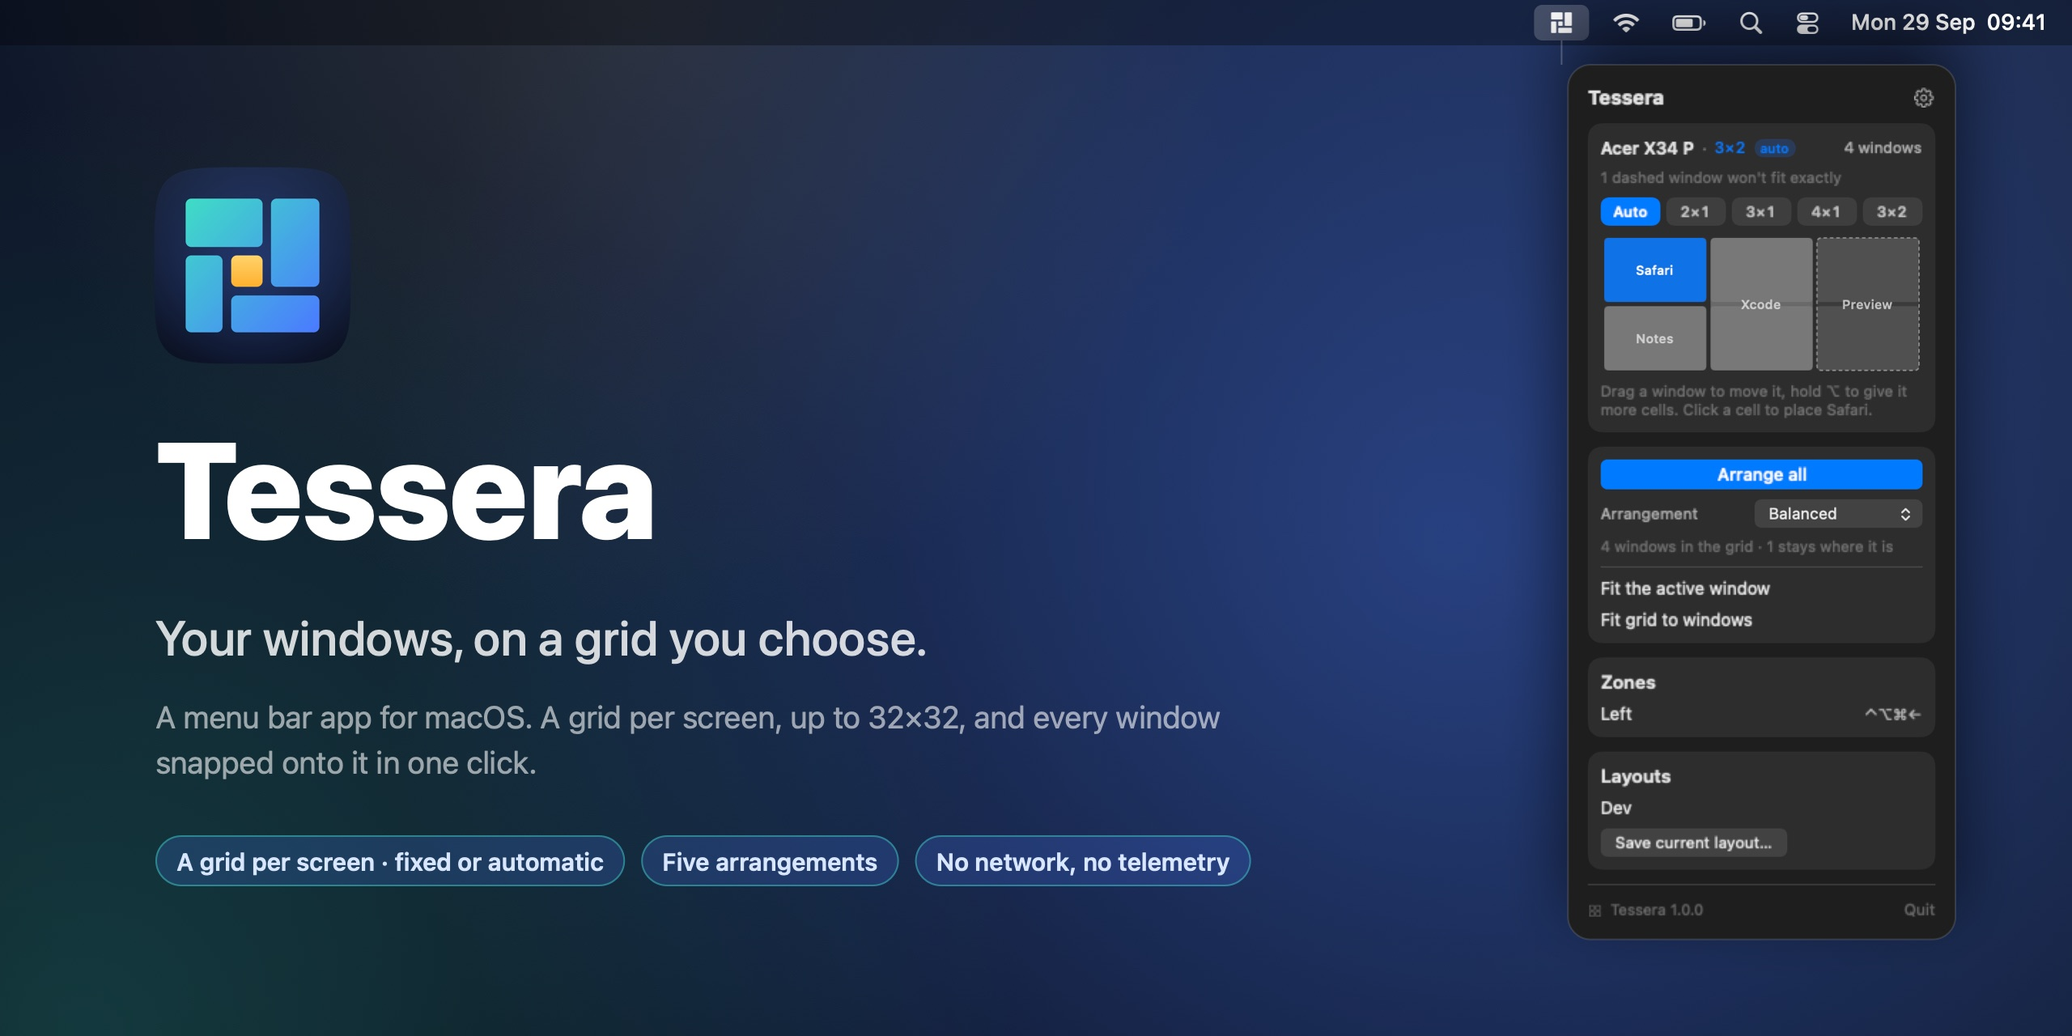
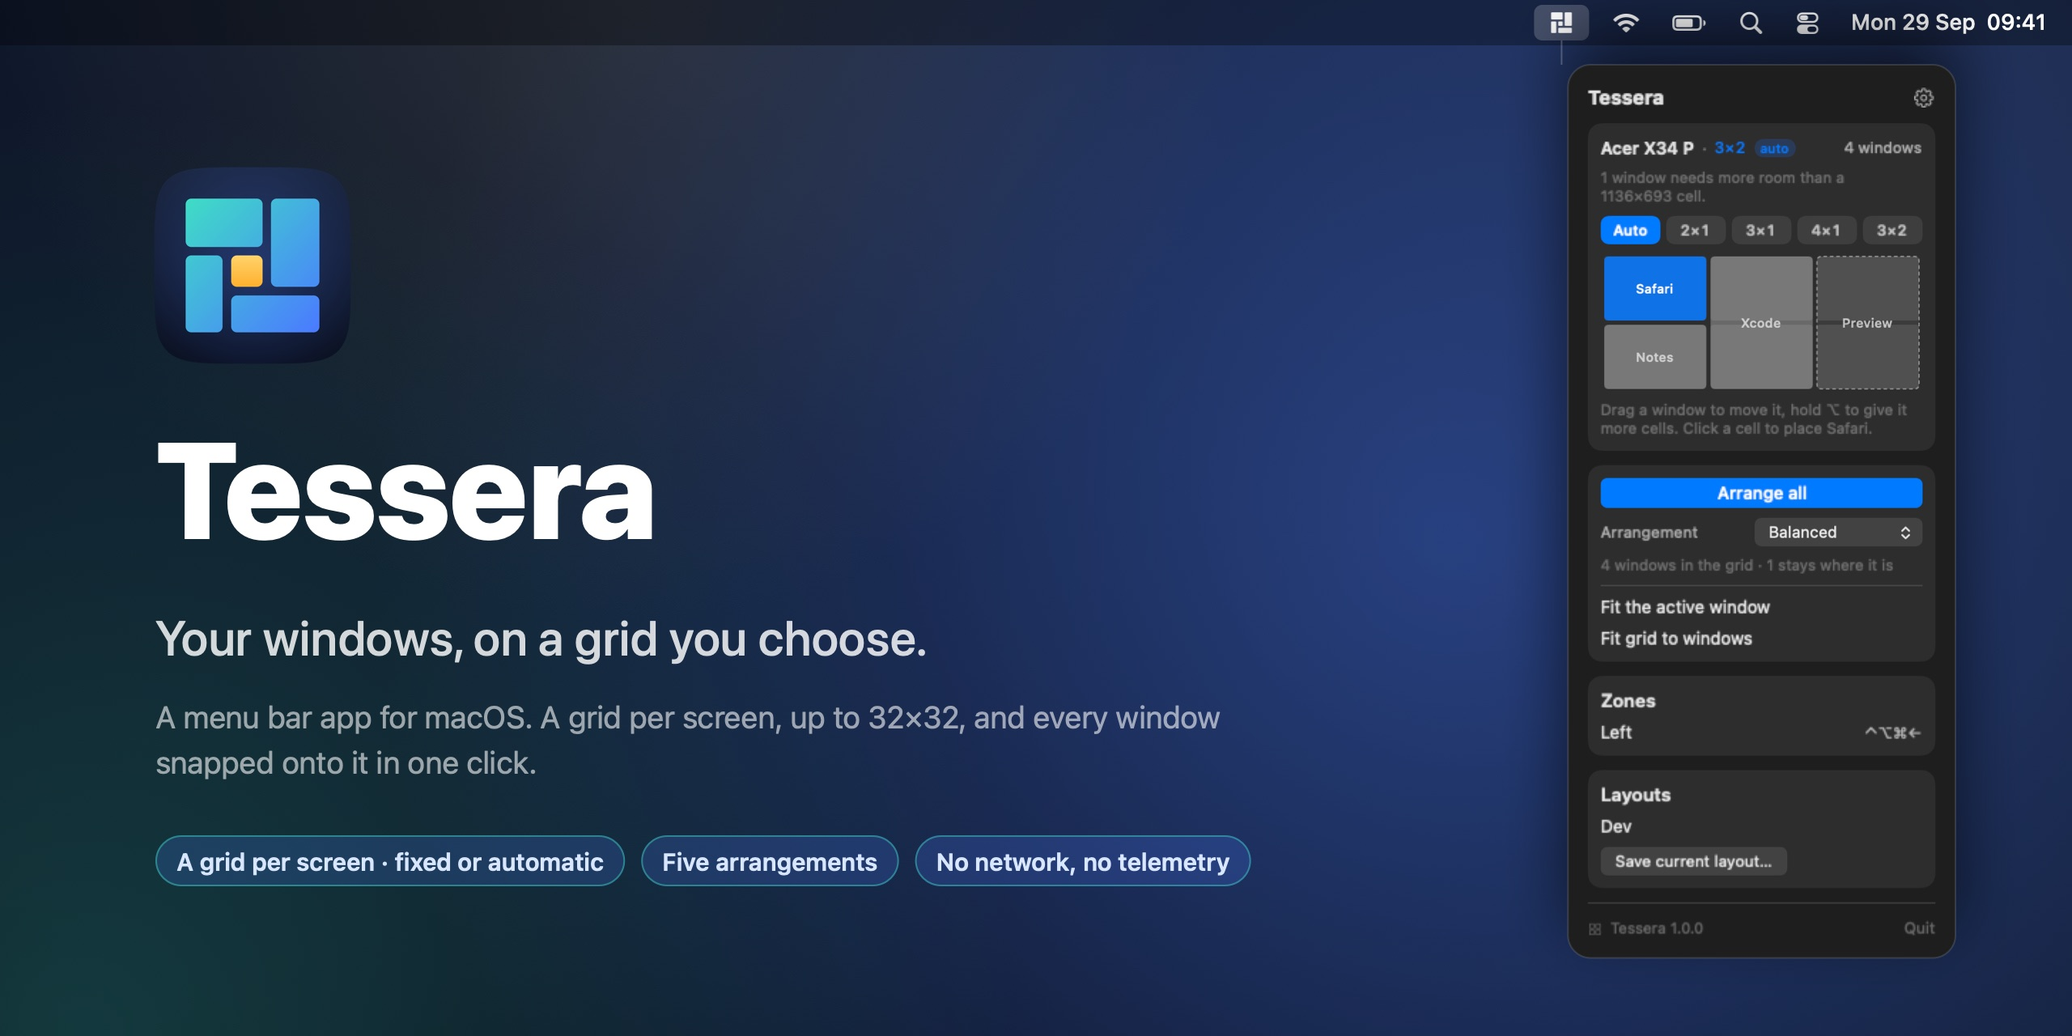
Imparare quanto piccole diventano le app, e non chiedere l'impossibile
Sul portatile con sei finestre una griglia 3x2 da' celle da 493 di
larghezza: cinque delle sei app non scendono sotto i 700-900, quindi il
risultato era una pila. Ogni rifiuto pero' dice gratis il minimo di
quell'app: ora viene ricordato per bundle id.

La griglia automatica non propone piu' celle che le app rifiutano (sul
portatile risponde 2x2 e dispone le tre che ci stanno, esattamente),
mentre una griglia scelta a mano resta obbedita alla lettera, con il
popover che dice quante finestre hanno bisogno di piu' spazio.

Il tratteggio sulla mappa ora significa una cosa precisa: questa app non
prende quella cella. Una finestra solo momentaneamente grande non e' piu'
tratteggiata. Conteggi di --diagnose e del popover allineati a cio' che
la disposizione fara' davvero.

diff --git a/Sources/AutoArrange.swift b/Sources/AutoArrange.swift
@@ -193,6 +193,40 @@ enum AutoArrange {
         return assignment
     }
 
+    // MARK: What an app will accept
+
+    /// Whether this app is known not to fit a cell of this size. An app never seen refusing
+    /// anything is assumed to fit: that is how it gets the chance to prove otherwise.
+    static func fits(_ window: ManagedWindow, in cell: CGSize) -> Bool {
+        guard let minimum = Store.shared.config.minimum(forBundle: window.bundleID) else { return true }
+        return minimum.width <= cell.width + 2 && minimum.height <= cell.height + 2
+    }
+
+    /// Records what the last arrangement taught us. A window that kept its own size was asked
+    /// for something smaller and refused: the size it kept is an upper bound on its minimum,
+    /// so the smallest refusal ever seen is the best estimate we have.
+    private static func learn(from outcomes: [(window: ManagedWindow, outcome: AX.PlacementOutcome)]) {
+        var learned: [String: [Double]] = [:]
+        for (window, outcome) in outcomes {
+            guard case .ownSize(let size) = outcome, !window.bundleID.isEmpty else { continue }
+            let known = Store.shared.config.minimum(forBundle: window.bundleID)
+            let width = min(Double(size.width), Double(known?.width ?? .greatestFiniteMagnitude))
+            let height = min(Double(size.height), Double(known?.height ?? .greatestFiniteMagnitude))
+            if known == nil || width < Double(known!.width) - 1 || height < Double(known!.height) - 1 {
+                learned[window.bundleID] = [width, height]
+            }
+        }
+        guard !learned.isEmpty else { return }
+        Store.shared.mutate { config in
+            for (bundle, size) in learned { config.minimums[bundle] = size }
+        }
+    }
+
+    /// The size of one cell of a grid on a screen.
+    static func cellSize(of grid: GridSpec, on frame: CGRect) -> CGSize {
+        Geometry.frame(for: CellRect(col: 0, row: 0), in: grid, on: frame).size
+    }
+
     /// The moves an arrangement would make: which window into which cell, and the rectangle
     /// that cell is. `apply` and `--diagnose` both go through here, so what the diagnostics
     /// print is what would really happen — including the pairing.
@@ -200,7 +234,13 @@ enum AutoArrange {
                       strategy: ArrangeStrategy)
         -> [(window: ManagedWindow, cell: CellRect, target: CGRect)] {
         let visible = screen.visibleFrame
-        let chosen = AX.sortedFrontToBack(windows).prefix(grid.cols * grid.rows)
+        // On an automatic screen the grid is Tessera's own choice, so it must not put a window
+        // in a cell the app will refuse: the ones that cannot fit are left where they are and
+        // counted as untouched. A grid the user set by hand is obeyed as it is.
+        let candidates = Store.shared.config.isAutoGrid(screen.tesseraKey)
+            ? windows.filter { fits($0, in: cellSize(of: grid, on: visible)) }
+            : windows
+        let chosen = AX.sortedFrontToBack(candidates).prefix(grid.cols * grid.rows)
         // Reading order first, so the pairing starts from the predictable answer.
         let ordered = chosen.sorted { a, b in
             let fa = a.frame ?? CGRect.zero, fb = b.frame ?? CGRect.zero
@@ -320,6 +360,7 @@ enum AutoArrange {
             }
             return (move.window.appName, outcome)
         }
+        learn(from: zip(moves, lastOutcomes).map { (window: $0.window, outcome: $1.outcome) })
         return lastOutcomes.filter { $0.outcome.succeeded }.count
     }
 
@@ -333,9 +374,12 @@ enum AutoArrange {
     /// How many windows "arrange all" would move on this screen, and how many it would leave alone.
     static func plan(on screen: NSScreen) -> (tiled: Int, untouched: Int) {
         let grid = Store.shared.config.grid(for: screen.tesseraKey)
-        let total = windows(on: screen).count
-        let tiled = min(total, grid.cols * grid.rows)
-        return (tiled, total - tiled)
+        let open = windows(on: screen)
+        // Through the same planner the arrangement uses, or the count promises one thing and
+        // the arrangement does another.
+        let tiled = moves(for: open, on: screen, grid: grid,
+                          strategy: Store.shared.config.defaultStrategy).count
+        return (tiled, open.count - tiled)
     }
 
     /// Every placeable window currently on this screen and on this Space.
@@ -356,27 +400,48 @@ enum AutoArrange {
     /// usable wide than tall), and cells should not be left over. On a 34" ultrawide four
     /// windows come out 2×2, six come out 3×2; on the laptop four come out 2×2 as well.
     static func bestGrid(for n: Int, on screen: NSScreen, like existing: GridSpec,
-                         targetAspect: CGFloat = 1.45) -> GridSpec {
-        bestGrid(for: n, fitting: screen.visibleFrame, like: existing, targetAspect: targetAspect)
+                         targetAspect: CGFloat = 1.45, needs: [CGSize?] = []) -> GridSpec {
+        bestGrid(for: n, fitting: screen.visibleFrame, like: existing,
+                 targetAspect: targetAspect, needs: needs)
     }
 
     static func bestGrid(for n: Int, fitting frame: CGRect, like existing: GridSpec,
-                         targetAspect: CGFloat = 1.45) -> GridSpec {
+                         targetAspect: CGFloat = 1.45, needs: [CGSize?] = []) -> GridSpec {
         guard n > 0, frame.height > 0 else { return existing }
         let aspect = frame.width / frame.height
+
+        /// How many of these windows could actually use a cell this size. An app nothing is
+        /// known about counts as fitting: it has never refused anything.
+        func usable(_ cell: CGSize) -> Int {
+            guard !needs.isEmpty else { return n }
+            return needs.filter { $0 == nil || ($0!.width <= cell.width + 2 && $0!.height <= cell.height + 2) }.count
+        }
+
         var best = (cols: 1, rows: n)
+        var bestShown = -1
         var bestScore = CGFloat.greatestFiniteMagnitude
-        for cols in 1...n {
-            let rows = Int(ceil(Double(n) / Double(cols)))
-            let spare = cols * rows - n
-            // A couple of empty cells are tolerable if they buy a much better shape; a grid
-            // that is mostly holes is not what "show me everything" means.
-            guard spare <= max(1, n / 3) else { continue }
-            let tileAspect = (aspect / CGFloat(cols)) * CGFloat(rows)
-            let score = abs(log(tileAspect / targetAspect)) + CGFloat(spare) * 0.35
-            if score < bestScore {
-                bestScore = score
-                best = (cols, rows)
+        for cols in 1...max(n, 1) {
+            for rows in 1...max(n, 1) {
+                let cells = cols * rows
+                // Cells nobody asked for: a couple are worth a better shape, a grid that is
+                // mostly holes is not what "show me everything" means.
+                let spare = max(0, cells - n)
+                guard spare <= max(1, n / 3) else { continue }
+                let candidate = GridSpec(cols: cols, rows: rows,
+                                         outerGap: existing.outerGap, innerGap: existing.innerGap)
+                let cell = cellSize(of: candidate, on: frame)
+                guard cell.width > 1, cell.height > 1 else { continue }
+                // Windows that would actually be visible in this grid. Fewer cells than there
+                // are windows is allowed — on a small screen with demanding apps it is the
+                // honest answer, and the windows left over stay where they are.
+                let shown = min(usable(cell), cells)
+                let tileAspect = (aspect / CGFloat(cols)) * CGFloat(rows)
+                let score = abs(log(tileAspect / targetAspect)) + CGFloat(spare) * 0.35
+                if shown > bestShown || (shown == bestShown && score < bestScore) {
+                    bestShown = shown
+                    bestScore = score
+                    best = (cols, rows)
+                }
             }
         }
         return GridSpec(cols: best.cols, rows: best.rows,
@@ -408,7 +473,12 @@ enum AutoArrange {
         let config = Store.shared.config
         let current = config.grid(for: key)
         guard config.isAutoGrid(key) else { return current }
-        let wanted = bestGrid(for: windows(on: screen).count, on: screen, like: current)
+        // What the apps on this screen are known to need, so the grid never proposes cells
+        // they will refuse: on a laptop screen with demanding apps that means fewer, bigger
+        // cells, and the windows that do not fit are left alone rather than piled up.
+        let open = windows(on: screen)
+        let needs = open.map { Store.shared.config.minimum(forBundle: $0.bundleID) }
+        let wanted = bestGrid(for: open.count, on: screen, like: current, needs: needs)
         writeGrid(wanted, for: key)
         return wanted
     }
@@ -439,10 +509,11 @@ enum AutoArrange {
                             appName: window.appName,
                             cell: cell,
                             isFocused: focused.map { CFEqual($0.element, window.element) } ?? false,
-                            // Bigger than the cell it sits in, or past what the grid can tile.
-                            resistant: index >= cellCount
-                                || frame.width > cellSize.width + 8
-                                || frame.height > cellSize.height + 8)
+                            // Dashed means "this one will not take that cell": an app known not
+                            // to go that small, or a window past what the grid can tile. Being
+                            // large right now is not the same thing — most windows shrink when
+                            // asked, and marking those would cry wolf.
+                            resistant: index >= cellCount || !fits(window, in: cellSize.size))
         }
     }
 

diff --git a/Sources/MenuBar.swift b/Sources/MenuBar.swift
@@ -28,6 +28,7 @@ final class PopoverModel: ObservableObject {
     @Published fileprivate(set) var grid = GridSpec.default
     @Published fileprivate(set) var autoGrid = false
     @Published fileprivate(set) var screenAspect: CGFloat = 1.6
+    @Published fileprivate(set) var cellSize = CGSize(width: 800, height: 600)
     @Published fileprivate(set) var occupants: [AutoArrange.Occupant] = []
     @Published fileprivate(set) var tiled = 0
     @Published fileprivate(set) var untouched = 0
@@ -56,6 +57,7 @@ final class PopoverModel: ObservableObject {
         // look. Otherwise opening this popover redraws the map against a grid nobody applied.
         grid = config.grid(for: screen.tesseraKey)
         screenAspect = frame.height > 0 ? frame.width / frame.height : 1.6
+        cellSize = AutoArrange.cellSize(of: grid, on: frame)
         occupants = trusted ? AutoArrange.occupancy(on: screen) : []
         let plan = trusted ? AutoArrange.plan(on: screen) : (tiled: 0, untouched: 0)
         tiled = plan.tiled
@@ -77,6 +79,7 @@ extension PopoverModel {
         grid = GridSpec(cols: 3, rows: 2)
         autoGrid = true
         screenAspect = 21.0 / 9.0
+        cellSize = CGSize(width: 1136, height: 693)
         // The renderer has no Accessibility access, so these stand-ins carry a window that
         // points at nothing: the map only ever draws their name and their cell.
         let nowhere = ManagedWindow(element: AXUIElementCreateSystemWide(), pid: 0,
@@ -511,13 +514,19 @@ struct TesseraPopover: View {
         }
     }
 
-    /// The windows that will not end up exactly where a layout puts them, said once, quietly.
-    /// What stays out of the grid for lack of cells belongs to the arrange button, not here.
+    /// Said once, quietly: how many of the windows on this screen cannot use a cell this size.
+    /// On a small screen with demanding apps that is the whole story, so the cell size is named
+    /// and, when the grid was chosen by hand, Auto is offered — it will not propose cells the
+    /// apps refuse.
     private var statusNote: String? {
         guard model.resistant > 0 else { return nil }
-        return model.resistant == 1
-            ? tr("1 dashed window won't fit exactly")
-            : String(format: tr("%d dashed windows won't fit exactly"), model.resistant)
+        let cell = model.cellSize
+        let head = model.resistant == 1
+            ? String(format: tr("1 window needs more room than a %d×%d cell."),
+                     Int(cell.width), Int(cell.height))
+            : String(format: tr("%d windows need more room than a %d×%d cell."),
+                     model.resistant, Int(cell.width), Int(cell.height))
+        return model.autoGrid ? head : head + " " + tr("Auto picks cells they can use.")
     }
 
     private var mapNote: String {

diff --git a/Tests/GeometryTests.swift b/Tests/GeometryTests.swift
@@ -205,5 +205,37 @@ do {
     check(CellRect(col: 0, row: 0).intersects(CellRect(col: 0, row: 0)), "a cell is in its own way")
 }
 
+// MARK: - A grid the apps can actually use
+
+// The real minimums measured on a MacBook screen: five of these six apps refuse a 493-wide
+// cell, so a 3×2 there is a pile, not a layout. With that knowledge the automatic grid has to
+// come back with fewer, bigger cells — even when that means not every window gets one.
+do {
+    let laptop = CGRect(x: 0, y: 57, width: 1512, height: 892)
+    let needs: [CGSize?] = [CGSize(width: 500, height: 434),   // Chrome
+                            CGSize(width: 709, height: 434),   // Notes
+                            CGSize(width: 744, height: 434),   // Activity Monitor
+                            CGSize(width: 759, height: 434),   // Mail
+                            CGSize(width: 800, height: 600),   // WhatsApp
+                            CGSize(width: 917, height: 503)]   // Calendar
+    let grid = AutoArrange.bestGrid(for: 6, fitting: laptop, like: .default, needs: needs)
+    let cell = AutoArrange.cellSize(of: grid, on: laptop)
+    check(grid.cols <= 2, "laptop with demanding apps: \(grid.cols)×\(grid.rows) is too fine")
+    let usable = needs.filter { $0!.width <= cell.width + 2 && $0!.height <= cell.height + 2 }.count
+    check(usable >= 3, "only \(usable) of 6 windows could use a \(Int(cell.width))×\(Int(cell.height)) cell")
+    // And the same six windows on the ultrawide: there the room is real, so the grid is not
+    // allowed to be timid.
+    let wide = AutoArrange.bestGrid(for: 6, fitting: ultrawide, like: .default, needs: needs)
+    check(wide.cols * wide.rows >= 6, "ultrawide with 6 windows: \(wide.cols)×\(wide.rows)")
+}
+
+// Knowing nothing about an app means giving it a chance: the grid is the one the count asks for.
+do {
+    let blind: [CGSize?] = Array(repeating: nil, count: 6)
+    check(AutoArrange.bestGrid(for: 6, fitting: ultrawide, like: .default, needs: blind)
+          == AutoArrange.bestGrid(for: 6, fitting: ultrawide, like: .default),
+          "unknown apps must not change the grid")
+}
+
 print(failures == 0 ? "ALL GEOMETRY CHECKS PASSED" : "\(failures) FAILURES")
 exit(failures == 0 ? 0 : 1)

diff --git a/Sources/Core.swift b/Sources/Core.swift
@@ -158,12 +158,23 @@ struct Config: Codable {
     var defaultStrategy: ArrangeStrategy = .balanced
     var masterFraction: CGFloat = 0.6        // width of the master tile in "master + stack"
     var language = "system"                  // system | en | it
+    /// The smallest size each app has been seen to accept, by bundle id. It is learned for
+    /// free: when a window refuses the cell it was given, the size it keeps is its minimum —
+    /// an upper bound on the true one, which every smaller refusal brings closer.
+    var minimums: [String: [Double]] = [:]
 
     func grid(for screenKey: String) -> GridSpec {
         (grids[screenKey] ?? .default).clamped()
     }
 
     func isAutoGrid(_ screenKey: String) -> Bool { autoGrid[screenKey] ?? false }
+
+    /// What is known about how small this app goes. Nothing known means it has never refused
+    /// a cell, and an app that has never refused is assumed to fit.
+    func minimum(forBundle bundleID: String) -> CGSize? {
+        guard let pair = minimums[bundleID], pair.count == 2 else { return nil }
+        return CGSize(width: pair[0], height: pair[1])
+    }
 
     init() {}
 
@@ -187,6 +198,7 @@ struct Config: Codable {
         defaultStrategy = value(.defaultStrategy, .balanced)
         masterFraction = value(.masterFraction, 0.6)
         language = value(.language, "system")
+        minimums = value(.minimums, [:])
     }
 }
 

diff --git a/Sources/Localization.swift b/Sources/Localization.swift
@@ -51,6 +51,11 @@ let italian: [String: String] = [
     "%d dashed windows won't fit exactly": "%d tratteggiate non si piazzano esatte",
     "Accessibility access is needed to see the windows.":
         "Serve l'accesso Accessibilità per vedere le finestre.",
+    "1 window needs more room than a %d×%d cell.":
+        "1 finestra ha bisogno di più spazio di una cella da %d×%d.",
+    "%d windows need more room than a %d×%d cell.":
+        "%d finestre hanno bisogno di più spazio di una cella da %d×%d.",
+    "Auto picks cells they can use.": "Auto sceglie celle che possono usare.",
     "Drag a window to move it, hold ⌥ to give it more cells.":
         "Trascina una finestra per spostarla, tieni ⌥ per darle più celle.",
     "Click a cell to place %@.": "Clicca una cella per piazzare %@.",

diff --git a/README.md b/README.md
@@ -26,6 +26,12 @@ screen onto a grid — 3×2, 4×2, or anything up to 32×32 — instead of the u
 
 ## Features
 
+- **It knows how small your apps go.** Every time a window refuses the cell it was given,
+  Tessera remembers the size it kept — that is the app's minimum, learned for free. The
+  automatic grid then never proposes cells your apps would refuse: on a 1512-wide laptop screen
+  with apps that will not go below ~750, that means two columns, not three, and the windows that
+  cannot fit are left where they are instead of being piled up. A grid you set by hand is still
+  obeyed to the letter, and the popover tells you how many windows need more room than its cells.
 - **A grid per screen, fixed or automatic.** Fixed is the grid you pick: 2×1, 3×1, 4×1, 3×2 and
   4×2 are one click away as presets in the popover, and the steppers go up to 32×32. Automatic
   derives the grid from how many windows are open on that screen, so they all fit and all stay
@@ -52,7 +58,8 @@ screen onto a grid — 3×2, 4×2, or anything up to 32×32 — instead of the u
 - **Everything in one popover.** Settings are a page of it, not a separate window. English and
   Italian (System / English / Italiano).
 - **Nothing leaves your Mac.** No network requests at all, no telemetry, no account. Configuration
-  is one readable file at `~/Library/Application Support/Tessera/config.json`.
+  is one readable file at `~/Library/Application Support/Tessera/config.json` — including the app
+  minimums it has learned, which are bundle ids and sizes, nothing else.
 - **Small.** Swift with AppKit and SwiftUI, no dependencies, no Xcode project, about 29 MB of RAM.
 
 ## Install

diff --git a/CHANGELOG.md b/CHANGELOG.md
@@ -2,6 +2,17 @@
 
 ## Unreleased
 
+- **Tessera learns how small each app goes** and stops proposing cells they cannot use. A window
+  that refuses its cell tells us its minimum for free; the automatic grid then picks fewer, bigger
+  cells on a screen that cannot hold more, and leaves the windows that do not fit where they are.
+  Measured on a 1512×892 laptop with six windows open: a 3×2 gave 493-wide cells that five of the
+  six apps refused, and the result was a pile; automatic now answers 2×2 and tiles the three that
+  fit, all of them exactly.
+- **The map's dashed tiles now mean something precise**: this app will not take that cell. A
+  window that merely happens to be large right now is not dashed, because it will shrink when
+  asked.
+- **`--diagnose` and the popover count what the arrangement will really do**, including the
+  windows it will leave alone.
 - **Quick grids in the popover**: Auto plus the presets that suit the shape of that screen, one
   click away, with the arrangement named in a picker instead of hidden behind an icon. Picking an
   arrangement makes it the default and applies it.
